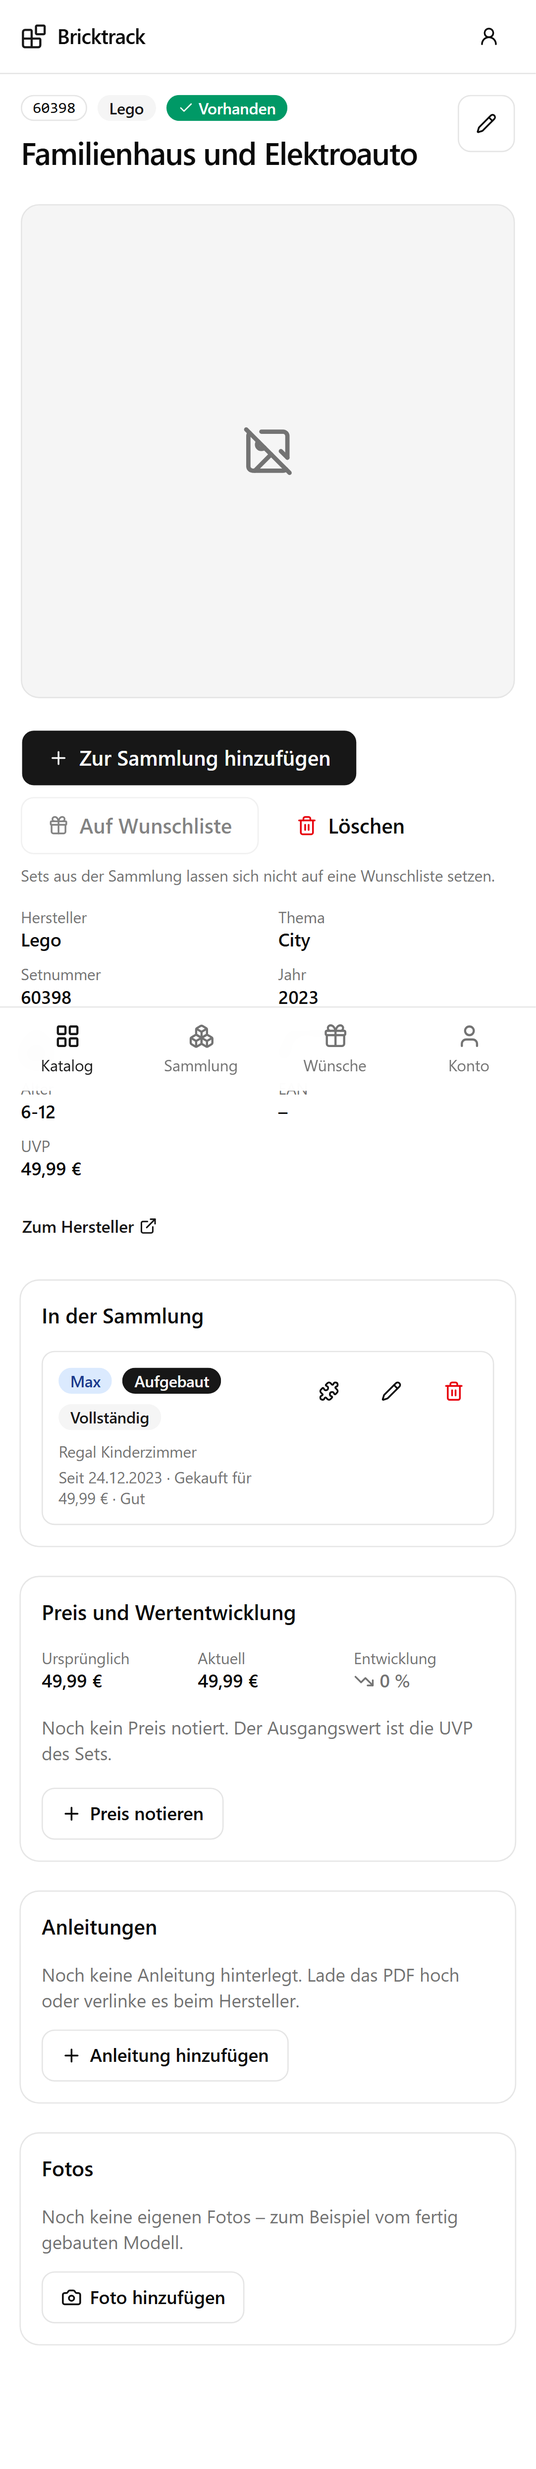
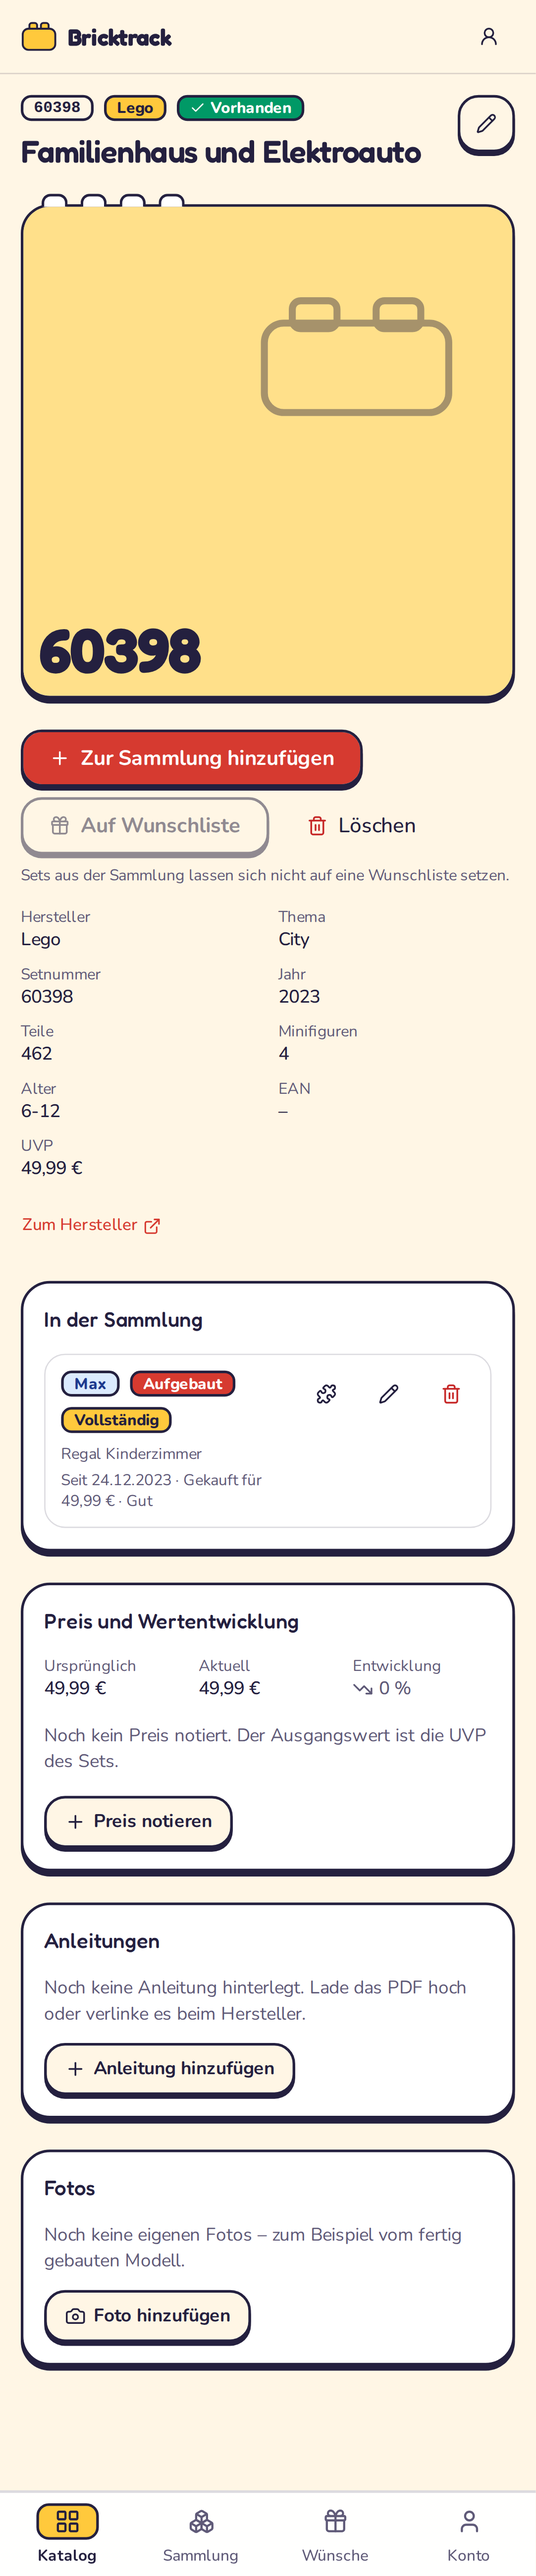
docs: anleitung, changelog und screenshots zum neuen design

diff --git a/docs/ANLEITUNG.md b/docs/ANLEITUNG.md
@@ -32,6 +32,7 @@ Kinderzimmer, nicht für den Schreibtisch.
 18. [Erinnerung vor dem Termin](#18-erinnerungen)
 19. [Schutz vor doppelten Einträgen](#19-dubletten)
 20. [Antworten auf die zwei wichtigen Fragen](#20-die-zwei-fragen)
+21. [Ein anderes Design](#21-design)
 
 ---
 
@@ -52,17 +53,20 @@ gleich danach unter „Konto" (siehe [Abschnitt 10](#10-passkeys-einrichten)).
 
 ![Startseite](bilder/02-start.png)
 
-Die Startseite ist die Abzweigung zu den vier Bereichen:
+Die Startseite zeigt auf einen Blick, wo die Sammlung steht:
 
 | | |
 |---|---|
-| **Katalog** | Alle bekannten Sets – egal ob vorhanden oder nicht |
-| **Fehlende Sets** | Der direkte Weg zu allem, was noch fehlt |
-| **Sammlung** | Was tatsächlich da ist |
-| **Wunschlisten** | Zum Teilen mit Familie und Freunden |
+| **Steinreihe** | Zehn Plätze für den ganzen Katalog. Jeder volle Stein ist ein Zehntel, das schon da ist – bei mehreren Kindern in deren Farbe |
+| **Teile und Wert** | Alle verbauten Teile und was die Sammlung heute wert ist |
+| **Nächster Termin** | Die nächste Wunschliste mit Datum, wie viele Tage noch bleiben und wie viel offen ist |
+| **Abkürzungen** | Direkt zu den fehlenden Sets, zu den Wunschlisten oder zu einem neuen Set |
 
 Unten am Bildschirmrand liegt die Navigation – auf dem Handy mit dem Daumen
-erreichbar.
+erreichbar. Der aktive Bereich sitzt auf einer kleinen Platte.
+
+Sets ohne Bild bekommen einen farbigen Platzhalter mit der Setnummer. Jeder
+Hersteller hat seine eigene Farbe – Lego gelb, Playmobil blau, Cobi grün.
 
 ---
 
@@ -545,6 +549,27 @@ Umschalter oben die Frage für jedes einzeln.
 
 Im Laden vor dem Regal: Scanner öffnen, Strichcode einlesen. Steht ein grüner
 Haken dran, habt ihr es schon.
+
+---
+
+## 21. Design
+
+![Startseite im Design Nachtblau](bilder/25-design-nachtblau.png)
+
+Unter **Konto → Design** gibt es sechs Looks zur Auswahl:
+
+| Design | |
+|---|---|
+| **Klemmbaustein** | Der Standard: Karten mit Noppen, dunkle Konturen, kräftige Steinfarben |
+| **Warm** | Ruhiger Sandton mit Ziegelrot |
+| **Nachtblau** | Dunkel mit gelbem Akzent – angenehm am Abend |
+| **Bonbon** | Weiches Lila mit Pastellfarben |
+| **Bauklotz** | Primärfarben und dicke schwarze Konturen |
+| **Schlicht** | Neutrales Grau, so wie Bricktrack bis Version 0.3 aussah |
+
+Die Auswahl wirkt sofort und gilt **für das Gerät**, nicht für das Konto: Das
+Tablet im Kinderzimmer kann bunt sein, während das Handy dunkel bleibt.
+Öffentliche Wunschlisten sehen Gäste immer im Standard-Design.
 
 ---
 

diff --git a/CHANGELOG.md b/CHANGELOG.md
@@ -7,6 +7,29 @@ die Versionierung [Semantic Versioning](https://semver.org/lang/de/).
 
 ## [Unreleased]
 
+Ein neues Gesicht: Bricktrack sieht jetzt aus wie das, was es verwaltet.
+
+### Hinzugefügt
+
+- **Designauswahl** unter Konto → Design: Klemmbaustein (neuer Standard),
+  Warm, Nachtblau (dunkel), Bonbon, Bauklotz und Schlicht (der bisherige
+  Look). Die Wahl gilt pro Gerät und wirkt sofort.
+- **Platzhalter für Sets ohne Bild**: Farbe des Herstellers, gezeichneter
+  Stein und Setnummer statt eines grauen „Bild fehlt".
+- **Startseite als Überblick**: Steinreihe für den Fortschritt (bei mehreren
+  Sammlern in deren Farben), Teile, Wert, nächster Wunschlisten-Termin mit
+  Countdown und Abkürzungen.
+- Neues Logo als Baustein, Schriften lokal gebündelt (kein CDN).
+
+### Geändert
+
+- Karten, Buttons und Badges tragen im Standard-Design Konturen, eine feste
+  Unterkante und Noppen. In der Sammlung und auf der öffentlichen
+  Wunschliste zeigen die Noppen den Sammler bzw. ob ein Wunsch reserviert ist.
+- Die öffentliche Wunschliste hat einen farbigen Kopf mit Anlass und Datum.
+- Screenshots der Anleitung zeigen die feste Navigation nicht mehr mitten
+  im Bild.
+
 ## [0.3.0] - 2026-09-07
 
 Phase 3: mehrere Kinder, Wertentwicklung, Erinnerungen und ein Schutz vor

diff --git a/CLAUDE.md b/CLAUDE.md
@@ -63,6 +63,16 @@ Bild-URLs, die der Nutzer selbst hinterlegt hat.
 | `src/lib/reminder-job.ts`, `src/lib/mailer.ts` | Versand und Zeitplan |
 | `src/lib/export.ts` | Export und Import des gesamten Bestands |
 | `src/lib/money.ts`, `src/lib/format.ts` | Cent-Umrechnung, dd.MM.yyyy |
+| `src/lib/design.ts`, `src/app/designs.css` | Designs: Namen und Cookie bzw. Tokens je `data-design` |
+| `src/components/brick/` | Noppen, Logo, Platzhalter fuer Sets ohne Bild |
+
+### Designs
+
+Das Design steht als `data-design` am `<html>` (Cookie `bricktrack-design`,
+pro Geraet, Standard `klemmbaustein`). Komponenten benutzen nur Tokens
+(`bg-primary`, `border-edge`, `--edge-w`, `--lift`, `bg-tone-1` ...), nie feste
+Farben - sonst stimmt ein Design nicht mehr. Karten mit Noppen: `<Studs />`
+neben die Karte in einen `relative`-Wrapper, die Karte selbst mit `brick`.
 
 ## Befehle
 

diff --git a/docs/ROADMAP.md b/docs/ROADMAP.md
@@ -59,6 +59,14 @@ Laeuft vollstaendig im Docker-Stack.
       rueckt und Eintraege unreserviert sind
 - [x] Dublettenpruefung beim Anlegen von Sets
 
+## Design (unveröffentlicht)
+
+- [x] Designauswahl pro Gerät, sechs Designs, Standard „Klemmbaustein"
+- [x] Platzhalter für Sets ohne Bild, neues Logo, Schriften lokal
+- [x] Startseite als Überblick mit Steinreihe und nächstem Termin
+- [ ] Filter im Katalog als Reiter statt Auswahlfelder
+- [ ] Scan-Button mittig in der unteren Navigation
+
 ## Danach
 
 Phase 1 bis 3 sind umgesetzt. Was noch offen ist, steht hier - ohne Termin
